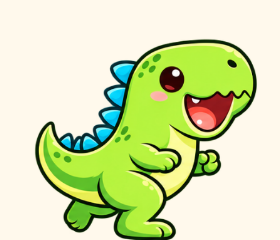
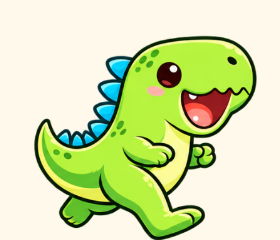
test: record treasure trail verification and refresh previews

Changed region(s): [[0.1143, 0.1458, 0.9429, 1.0]]

diff --git a/docs/VALIDATION.md b/docs/VALIDATION.md
@@ -1,5 +1,37 @@
 # Validation record
 
+## November 1, 2026 — treasure trail and project README (1.3.0+6)
+
+- Replaced the long weekly-gift list with a daily chest, prominent claim action,
+  balance/streak chips, progress bar, a winding seven-stop board and a larger
+  600-gold final treasure. Original vector chest artwork opens when claimed;
+  extra-effects and device reduced-motion settings control its animation.
+- Fixed amounts, one claim per local date, visit counting and missed-day reward
+  preservation are unchanged. The seventh gift stays visibly completed until
+  the next eligible day, then the board resets for a fresh seven-gift trail.
+- All 53 tests pass; analyzer clean. Existing gift-page layout checks cover
+  small phones, short landscape windows and tablets at 200% text. A new UI test
+  claims all seven gifts, checks each completion state, and checks the new-day
+  reset. Numeric progress-bar semantics preserve screen-reader compatibility.
+- Web build and headless Chrome regression passed: no external requests,
+  JavaScript errors or failed HTTP responses. The daily chest, complete trail,
+  claimed chest, updated balance and progress were visually inspected. Captures
+  are `weekly-gifts.png`, `weekly-trail.png` and `weekly-gifts-claimed.png` under
+  `screenshots/`. A focused extra capture positions the whole seven-stop board
+  below the app bar for the README; no production state was modified by it.
+- Android debug APK built; manifest confirms 1.3.0 / versionCode 6, minimum API 24
+  and target API 36. Native compatibility and official 16 KB zipalign checks
+  passed for seven 64-bit libraries; all three expected ABIs are present.
+  The debug application ID is still a placeholder; permanent release identity,
+  signing and physical-device testing remain in RELEASE.md.
+- Rewrote README with project status, visual previews, controls, economy tables,
+  seven-gift rules, installation, verification, architecture, privacy, platform
+  support, release setup, documentation index, contribution/support and licensing.
+  All 29 local document/image references resolve. Existing artwork rights review
+  and original MIT attribution remain explicit.
+- Feature commit: `fdd7880`. README commit: `baf1ce6`. Gradle and the local preview
+  server were stopped afterward; Android Studio/emulator were not launched.
+
 ## November 1, 2026 — dinosaur leg animation (1.2.1+5)
 
 - All four dinosaurs now use six running poses, an airborne pose and a landing
